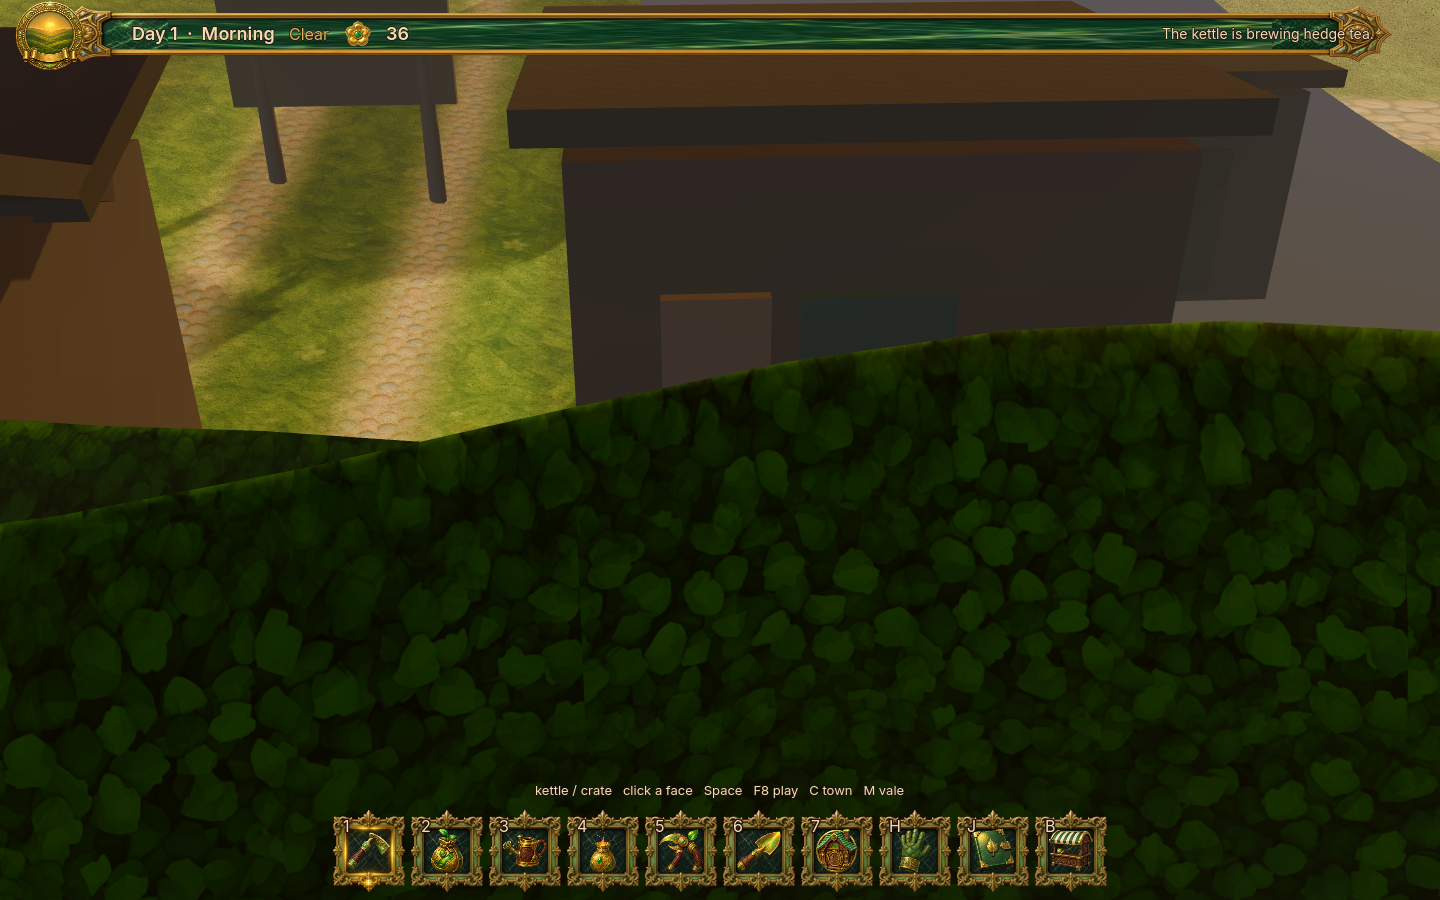
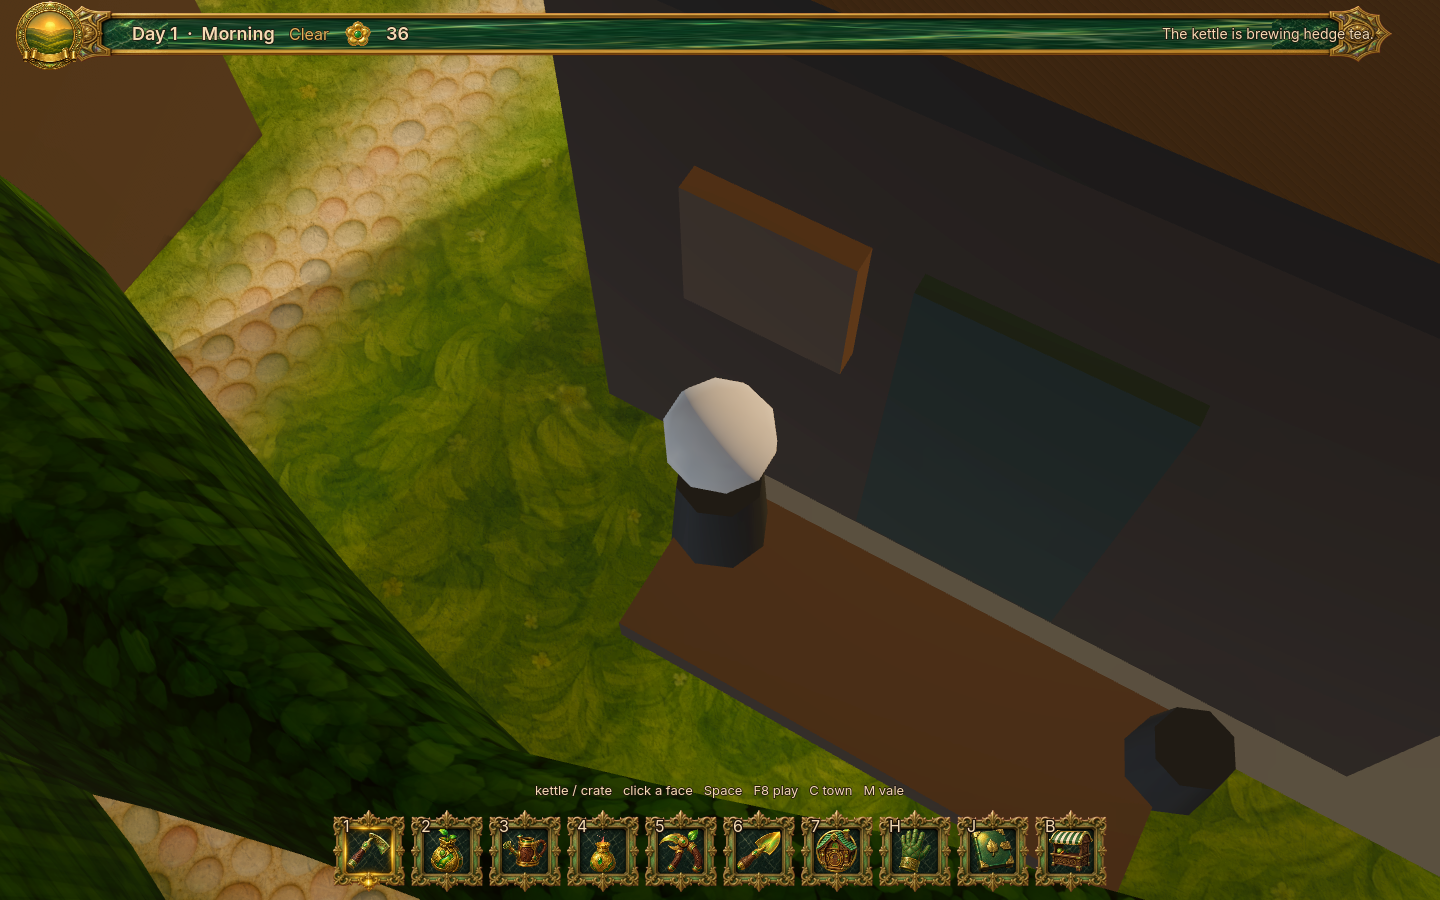
Frame the brewing kettle from above the hedge.
The brew plate was the tea-house wall and a hedge. The camera now sits over the porch, and the shot quits if the kettle leaves the middle of the frame.

diff --git a/docs/CURRENT_STATE.md b/docs/CURRENT_STATE.md
@@ -46,8 +46,9 @@ Executive on this branch. No other agent is writing this tree in this run.
 
 2026-09-29, Godot 4.8-dev6, llvmpipe, `DISPLAY=:1`.
 
-- `./tools/petal_qa.sh` → `PETAL_QA_SCRIPTS_OK` on the previous tip. This pass re-ran `tests/test_town.gd` → `TOWN_OK`.
-- `PETAL_TOWN_SHOT=1 tools/run.sh res://scenes/garden.tscn` → `PETAL_TOWN_SHOT_OK`. The shot quits if the near cottage has no body.
+- `tests/test_town.gd` → `TOWN_OK`.
+- `PETAL_TOWN_SHOT=1` → `PETAL_TOWN_SHOT_OK`. The shot quits if the near cottage has no body.
+- `PETAL_KETTLE_SHOT=1` → `PETAL_KETTLE_SHOT_OK`. The brew plate quits if the kettle leaves the frame.
 - Dummy ALSA `ERR_CANT_OPEN` and a GLES texture leak on quit. Expected on this VM.
 
 ## LATEST SCREENSHOTS
@@ -55,6 +56,8 @@ Executive on this branch. No other agent is writing this tree in this run.
 `docs/screenshots/jelly_nuzzle.png` (1440×900). Bellhelp is a flat species-green icon with two black vertical eyes, on the Grove Park lawn.
 
 `docs/screenshots/jelly_land.png` (1440×900). After the throw, the same icon rests on the grass beside a bench. The hedge gate and the garden are in the background. Photo mode is on.
+
+`docs/screenshots/kettle_brew.png` (1440×900). The dark kettle and its white steam sit on the tea-house porch. The line reads “The kettle is brewing hedge tea.”
 
 `docs/screenshots/jam_pan.png` (1440×900). The shed pan is a copper pot of red jam with a puff of steam. The shed wall is behind it.
 
@@ -76,8 +79,8 @@ One playable original-IP garden a person can tend, feed, and throw, reading as a
 
 ## NEXT 5 TASKS
 
-1. Keep the kettle brew plate on the kettle, the way the pan plate stays on the pan.
-2. Give the jelly icon a little gel volume that does not wash the eyes out under the sun.
+1. Give the jelly icon a little gel volume that does not wash the eyes out under the sun.
+2. Keep the resting cut-out for a fed idle jelly, and the gel icon for hunger and a grab.
 3. Leave `grove_park.active` false until Nessa's existing filing. Do not add another east-chain stone.
 4. When this suite stays green, make this garden the boot line. `main` is still the stone tail.
 5. Cherry-pick neon status icons only if they sit on the icon and leave the eyes visible.

diff --git a/docs/CAMPAIGN_BOARD.md b/docs/CAMPAIGN_BOARD.md
@@ -16,6 +16,7 @@ Playable Hedge Hollow on `petal/09-art-rescue`, continued on `cursor/playable-je
 - `PETAL_QA_SCRIPTS_OK`, `JELLY_PLAY_OK`, and `PETAL_RESIDENT_SHOT_OK` are green on this tip (2026-09-29). The park frame shows the gate, the lawn, Bellhelp, and both veg folk.
 - Cherry-pick neon status icons (`cursor/jelly-status-icons-ffcb`) only if they sit on the icon and leave the eyes visible.
 - `PETAL_TOWN_SHOT_OK` shows a tomato household at the near cottage door.
+- `kettle_brew.png` keeps the brewing kettle and its steam in frame.
 - `jam_pan.png` now shows the copper pan, the jam, and the steam. The shed wall is behind it.
 - Point `main` at this garden when the suite stays green. Do not replay the east-chain.
 
